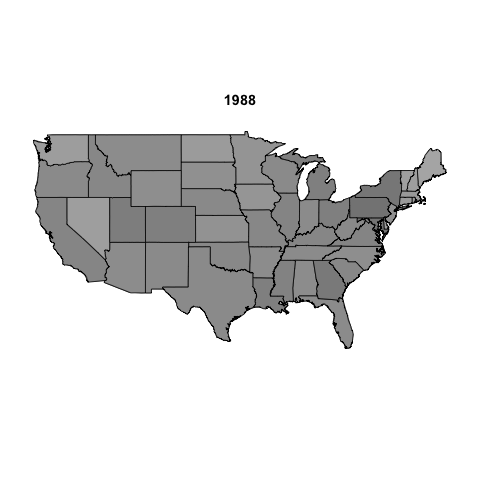
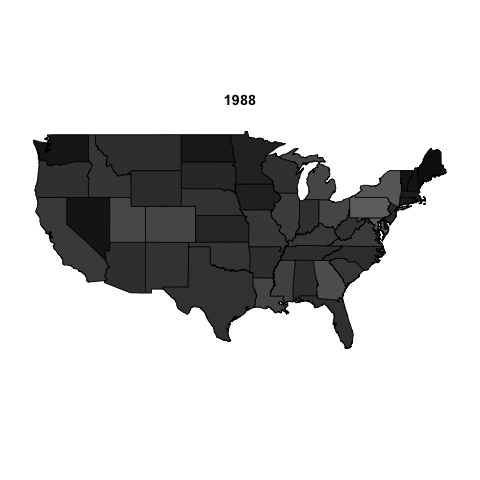
dissim変更

Changed region(s): [[0.0625, 0.2812, 0.9375, 0.7188]]

diff --git a/qss/chapter5/dissimilarity/dissimilarity.html b/qss/chapter5/dissimilarity/dissimilarity.html
@@ -20,14 +20,11 @@
 	<div class="scianimator"><div id="Rplot" style="display: inline-block;"></div></div>
 	<div class="scianimator" style="width: 480px; text-align: left"><pre><code class="r">## Animations generated in R version 3.6.3 (2020-02-29)
 ##   using the package animation
-library(qss)
-library(ineq)
 library(animation)
+library(ineq)
 library(maps)
-library(devtools)
-library(usethis)
+library(qss)
 library(patchwork)
-library(magrittr)
 library(forcats)
 library(stringr)
 library(dplyr)
@@ -37,23 +34,22 @@ library(tidyr)
 library(tibble)
 library(ggplot2)
 library(tidyverse)
+library(magrittr)
+library(knitr)
 for (i in 1:14) {
     map(database = "state")
     for (j in 1:48) {
         map(database = "state", regions = as.character(dissimilarity_all_list[[i]]$state[j]), 
-            fill = TRUE, add = TRUE, col = rgb(blue = 0.75 - 
-              dissimilarity_all_list[[i]]$dissimilarity[j], 
-              green = 0.75 - dissimilarity_all_list[[i]]$dissimilarity[j], 
-              red = 0.75 - dissimilarity_all_list[[i]]$dissimilarity[j]))
+            fill = TRUE, add = TRUE, col = grey(dissimilarity_all_list[[i]]$dissimilarity[j]))
     }
     title(as.character(1956 + i * 4))
 }
 ## R version 3.6.3 (2020-02-29)
 ## Platform: x86_64-apple-darwin15.6.0 (64-bit)
-## Other packages: qss 0.1.0.9000, ineq 0.2-13, animation 2.6, maps
-## 3.3.0, devtools 2.3.0, usethis 1.6.1, patchwork 1.0.0, magrittr 1.5,
-## forcats 0.5.0, stringr 1.4.0, dplyr 1.0.0, purrr 0.3.4, readr 1.3.1,
-## tidyr 1.1.0, tibble 3.0.1, ggplot2 3.3.1, tidyverse 1.3.0</code></pre></div>
+## Other packages: animation 2.6, ineq 0.2-13, maps 3.3.0, qss
+## 0.1.0.9000, patchwork 1.0.0, forcats 0.5.0, stringr 1.4.0, dplyr
+## 1.0.0, purrr 0.3.4, readr 1.3.1, tidyr 1.1.0, tibble 3.0.1, ggplot2
+## 3.3.1, tidyverse 1.3.0, magrittr 1.5, knitr 1.29</code></pre></div>
 	<script src="js/Rplot.js"></script>
 <!-- highlight R code -->
 
